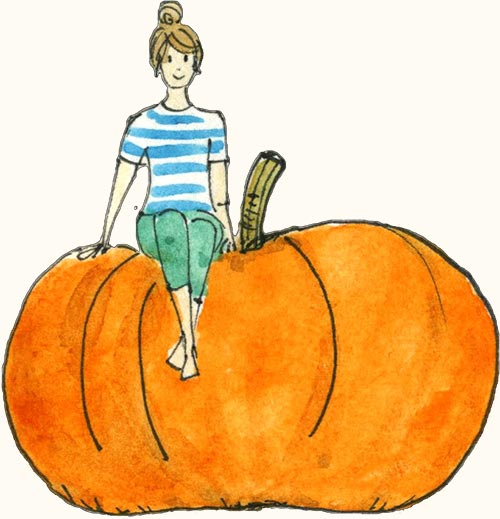
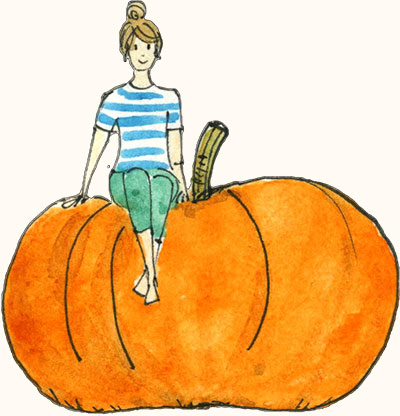
fixes

diff --git a/default.css b/default.css
@@ -110,13 +110,13 @@ h2 {
 }
 
 .nutritext {
-  height: 370px;
+  height: 400px;
   padding: 0 20px
 }
 
 .nutritext p {
   position: relative;
-  top: 55%;
+  top: 50%;
   -ms-transform: translateY(-50%);
   -webkit-transform: translateY(-50%);
   transform: translateY(-50%);
@@ -155,11 +155,6 @@ h2 {
   margin: 0;
 }
 
-
-.padfooter {
-  padding: 0 40px;
-}
-
 .contatti {
   margin-top: 30px;
   margin-bottom: 100px;
@@ -172,7 +167,7 @@ h2 {
 
 .zucca {
   width: 100%;
-  max-width: 500px;
+  max-width: 335px;
   margin-top: 100px;
 }
 
@@ -257,4 +252,7 @@ h2 {
     max-width: 400px;
   }
 
+  .padfooter {
+    padding: 0 40px;
+  }
 }

diff --git a/index.html b/index.html
@@ -15,6 +15,14 @@
   <script src="https://oss.maxcdn.com/respond/1.4.2/respond.min.js"></script>
 <![endif]-->
 <script src="https://kit.fontawesome.com/2e7c53a18c.js" crossorigin="anonymous"></script>
+<!-- Global site tag (gtag.js) - Google Analytics -->
+<script async src="https://www.googletagmanager.com/gtag/js?id=G-CCHMEV6RNH"></script>
+<script>
+  window.dataLayer = window.dataLayer || [];
+  function gtag(){dataLayer.push(arguments);}
+  gtag('js', new Date());
+  gtag('config', 'G-CCHMEV6RNH');
+</script>
 </head>
 <body>
 
